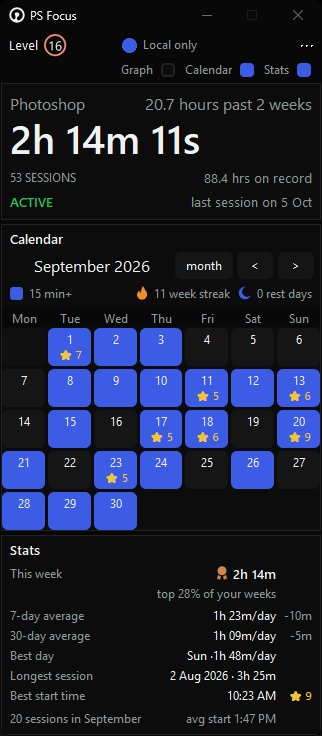
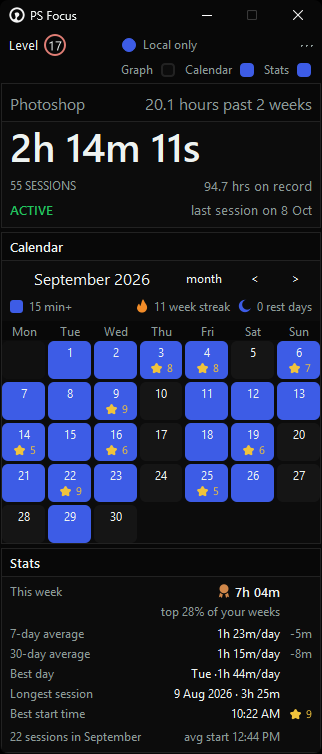
Site: Qt screenshots, floating panels and transparency; plain ticked checkboxes

diff --git a/docs/_layouts/default.html b/docs/_layouts/default.html
@@ -61,6 +61,9 @@
     .shots figcaption, .caption { color: var(--muted); font-size: 14px; margin: 8px 0 0; }
     .wide-shot { margin: 20px 0 0; }
     .wide-shot img { display: block; width: 100%; height: auto; border: 1px solid var(--border); border-radius: 8px; }
+    /* A picture narrower than the page, shown at its own size and centred */
+    .wide-shot.natural img { width: auto; max-width: 100%; margin: 0 auto; }
+    .wide-shot.natural figcaption { text-align: center; }
     .note { background: var(--panel); border: 1px solid var(--border); border-radius: 8px; padding: 12px 16px; color: var(--muted); font-size: 14px; }
     .note p { color: var(--muted); margin: 6px 0; }
     footer { border-top: 1px solid var(--border); padding-top: 20px; padding-bottom: 40px; color: var(--muted); font-size: 14px; }

diff --git a/tools/site_screenshots.py b/tools/site_screenshots.py
@@ -1,50 +1,60 @@
 """Capture the real app, title bar included, showing believable sample data, for the public download page
 
-Nothing from the user's own history or account is used: the app runs against a throwaway data folder.
+Nothing from the user's own history or account is used: the app runs against a throwaway data folder. A plain window
+in the page's own black stands behind the app while it is captured, so nothing else on the screen can show in the
+pictures, not even in the rounded corners.
+
+Run as `py tools/site_screenshots.py [folder]` (the website's assets by default), then commit and push the site.
 """
-import ctypes
-import json
+import os
 import random
 import sys
 import tempfile
 import time
-import tkinter as tk
-from ctypes import wintypes
 from datetime import date, timedelta
 from pathlib import Path
 
-from PIL import ImageGrab
-
 ROOT = Path(__file__).resolve().parent.parent
 sys.path.insert(0, str(ROOT))
-import app_config
-import main
-
-# The website folder's assets by default; run as `py tools/site_screenshots.py [folder]`, then commit and push the site
 out = Path(sys.argv[1]) if len(sys.argv) > 1 else ROOT / "docs" / "assets"
 out.mkdir(parents=True, exist_ok=True)
 data = Path(tempfile.mkdtemp(prefix="psfocus-site-"))
-app_config.APP_DATA = data
-app_config.LEGACY_APP_DATA = data / "legacy"
-app_config.SETTINGS_PATH = data / "settings.json"
-app_config.DATABASE_PATH = data / "activity.sqlite3"
-app_config.BACKUP_DIRECTORIES = (data / "backups",)
-app_config.SETTINGS_PATH.write_text(json.dumps({"feedback_submitted": True, "show_calendar": True, "show_stats": True, "period": "Week"}), encoding="utf-8")
-main.PSFocusApp._start_tray_icon = lambda self: None
-main.PSFocusApp._check_for_updates = lambda self: None
-main.PSFocusApp._celebrate_level_up = lambda self, level: None
-foreground = {"app": "Photoshop"}
-main.foreground_application = lambda: foreground["app"]
-main.user_is_active = lambda _seconds=300: True
+# Before app_config is imported, which reads the data folder once
+os.environ["PSFOCUS_DATA_DIR"] = str(data)
+os.environ["QT_QPA_PLATFORM"] = "windows"
+(data / "settings.json").write_text(
+    '{"feedback_submitted": true, "show_graph": false, "show_calendar": true, "show_stats": true, "period": "Week", '
+    '"panel_transparency": 0}',
+    encoding="utf-8",
+)
 
-root = tk.Tk()
-app = main.PSFocusApp(root)
+from PySide6.QtCore import QPoint, QRect, Qt  # noqa: E402
+from PySide6.QtWidgets import QApplication, QSystemTrayIcon, QWidget  # noqa: E402
+
+import qt.app as qt_app  # noqa: E402
+from qt.app import PSFocusQt  # noqa: E402
+
+# No tray icon, update check, celebration or tip; Photoshop in front the whole time
+PSFocusQt._start_tray_icon = lambda self: setattr(self, "tray_icon", QSystemTrayIcon())
+PSFocusQt._celebrate_level_up = lambda self, level: None
+qt_app.foreground_application = lambda: "Photoshop"
+qt_app.user_is_active = lambda _seconds=300: True
+
+application = QApplication(sys.argv)
+backdrop = QWidget(None, Qt.WindowType.FramelessWindowHint)
+backdrop.setStyleSheet("background: #000000;")
+screen = application.primaryScreen().availableGeometry()
+backdrop.setGeometry(screen)
+backdrop.show()
+app = PSFocusQt(application)
 app._save_settings = lambda: None
+app.tick_timer.stop()
 
 # Ten weeks of plausible drawing sessions: most weekdays, some weekends, an hour or three at a time
 rng = random.Random(11)
 today = date.today()
-with app.store.connection:
+store = app.store
+with store.connection:
     for days_ago in range(1, 71):
         day = today - timedelta(days=days_ago)
         if rng.random() < (0.45 if day.weekday() >= 5 else 0.2):
@@ -54,66 +64,95 @@ with app.store.connection:
         hour, remaining = start_hour, minutes * 60
         while remaining > 0 and hour < 24:
             seconds = min(remaining, rng.randint(2400, 3600))
-            app.store.connection.execute(
+            store.connection.execute(
                 "INSERT OR REPLACE INTO activity (day, slot, seconds, application) VALUES (?, ?, ?, 'Photoshop')", (day.isoformat(), hour, seconds)
             )
             remaining -= seconds
             hour += 1
-        app.store.connection.execute(
+        store.connection.execute(
             "INSERT OR IGNORE INTO session_starts (day, application, started_at) VALUES (?, 'Photoshop', ?)",
             (day.isoformat(), f"{start_hour:02d}:{rng.choice((5, 10, 20, 30, 40)):02d}"),
         )
         if rng.random() < 0.4:
-            app.store.connection.execute("INSERT OR REPLACE INTO productivity_ratings (day, rating) VALUES (?, ?)", (day.isoformat(), rng.randint(5, 9)))
+            store.connection.execute("INSERT OR REPLACE INTO productivity_ratings (day, rating) VALUES (?, ?)", (day.isoformat(), rng.randint(5, 9)))
     # Today so far: a session in progress
     for hour, seconds in ((9, 2900), (10, 3400), (11, 1750)):
-        app.store.connection.execute(
+        store.connection.execute(
             "INSERT OR REPLACE INTO activity (day, slot, seconds, application) VALUES (?, ?, ?, 'Photoshop')", (today.isoformat(), hour, seconds)
         )
-    app.store.connection.execute("INSERT OR IGNORE INTO session_starts (day, application, started_at) VALUES (?, 'Photoshop', '09:10')", (today.isoformat(),))
+    store.connection.execute("INSERT OR IGNORE INTO session_starts (day, application, started_at) VALUES (?, 'Photoshop', '09:10')", (today.isoformat(),))
 
 
-def settle(seconds=0.5):
+def settle(seconds=0.6):
     end = time.time() + seconds
     while time.time() < end:
-        root.update()
+        application.processEvents()
         time.sleep(0.02)
 
 
 def show(**modules):
     for name, visible in modules.items():
-        if app.module_vars[name].get() != visible:
-            app.module_vars[name].set(visible)
-            app._toggle_module(name)
+        if app.module_ticked[name] != visible:
+            app.module_ticked[name] = visible
+            app._module_toggled(name)
+    app.module_controls.update()
 
 
-def shoot(name):
+def refresh():
     app._track_and_refresh()
-    app.calendar_visual_state = None
-    app._calendar_period_changed()
-    app._draw_chart()
-    app._resize_to_content(fit=True)
+    for name in ("graph", "calendar", "stats"):
+        if app.module_ticked[name]:
+            app._refresh_module(name)
+    app._arrange_blocks()
     settle()
-    handle = ctypes.windll.user32.GetAncestor(ctypes.c_void_p(root.winfo_id()), 2)
-    rect = wintypes.RECT()
-    ctypes.windll.dwmapi.DwmGetWindowAttribute(ctypes.c_void_p(handle), 9, ctypes.byref(rect), ctypes.sizeof(rect))
-    image = ImageGrab.grab(bbox=(rect.left, rect.top, rect.right, rect.bottom)).convert("RGB")
-    image.save(out / f"{name}.png", optimize=True)
-    print(f"{name}: {image.width}x{image.height}")
+
+
+def frame(widget) -> QRect:
+    """A window's frame as drawn, without Windows' invisible resize border"""
+    if widget is app.window:
+        left, top, right, bottom = app.docking.main_bounds()
+        return QRect(left, top, right - left, bottom - top)
+    return widget.frameGeometry()
+
+
+def shoot(name, *windows):
+    refresh()
+    area = frame(windows[0])
+    for window in windows[1:]:
+        area = area.united(frame(window))
+    image = application.primaryScreen().grabWindow(0, area.x(), area.y(), area.width(), area.height()).toImage()
+    image.save(str(out / f"{name}.png"))
+    print(f"{name}: {image.width()}x{image.height()}")
 
 
 settle()
-root.geometry("+300+60")
-root.attributes("-topmost", True)
+app.window.move(screen.x() + 400, screen.y() + 40)
+app.window.raise_()
 settle()
 # Last month is shown, as a full month of sessions says more than the first days of a new one
-app._shift_calendar_month(-1)
-shoot("screenshot-calendar")
+app.calendar._step(-1)
+shoot("screenshot-calendar", app.window)
 show(calendar=False, stats=False, graph=True)
-app._set_period("Month")
-shoot("screenshot-graph")
-# The landscape orientation, every module open beside the program panel
+app.chart._set_period("Month")
+shoot("screenshot-graph", app.window)
+# Floating panels: the calendar and stats taken out of the window and snapped beside it, one above the other
 show(calendar=True, stats=True, graph=True)
-app._set_orientation(True)
-shoot("screenshot-landscape")
-root.destroy()
+app.docking.float_module("calendar", QPoint(0, 0))
+app.docking.float_module("stats", QPoint(0, 0))
+settle()
+left, top, _right, _bottom = app.docking.main_bounds()
+calendar_panel, stats_panel = app.docking.floating["calendar"], app.docking.floating["stats"]
+calendar_panel.move(left - calendar_panel.width(), top)
+stats_panel.move(left - stats_panel.width(), top + calendar_panel.height())
+for panel in (calendar_panel, stats_panel):
+    panel.raise_()
+shoot("screenshot-floating", app.window, calendar_panel, stats_panel)
+# The landscape orientation, every module back in the window beside the program panel
+app.docking.dock_all()
+app.landscape = True
+app.landscape_width = None
+app._arrange_blocks()
+app.window.move(screen.x() + 40, screen.y() + 40)
+shoot("screenshot-landscape", app.window)
+sys.stdout.flush()
+os._exit(0)

diff --git a/qt/header.py b/qt/header.py
@@ -60,12 +60,10 @@ def fit_text(text: str, font: QFont, width: int) -> str:
 
 
 def draw_checkbox(painter: QPainter, center: QPointF, checked: bool, hovered: bool = False) -> None:
-    """The rounded square of a checkbox, filled when ticked, with a two-pixel outline. Under the mouse its inside fills
-    a shade lighter, as a button's box shows"""
+    """The rounded square of a checkbox, filled when ticked, with a two-pixel outline. Under the mouse the inside of an
+    empty one fills a shade lighter, as a button's box shows; a ticked one stays as it is"""
     outline = color("calendar_blue") if checked else color("border")
-    fill = color("calendar_blue") if checked else color("panel")
-    if hovered:
-        fill = fill.lighter(125) if checked else color("border")
+    fill = color("calendar_blue") if checked else color("border" if hovered else "panel")
     half = CHECKBOX_BOX_SIZE / 2
     box = QRectF(center.x() - half, center.y() - half, CHECKBOX_BOX_SIZE, CHECKBOX_BOX_SIZE)
     painter.save()

diff --git a/docs/index.md b/docs/index.md
@@ -28,7 +28,8 @@ Windows may say "Windows protected your PC" because the app isn't code-signed ye
 - **Counts real work only.** Time counts while your art app is in front, and pauses after five idle minutes.
 - **Shows your habits.** Charts by day, week, month, and year, a calendar of sessions, streaks, and averages.
 - **Levels 1 to 99.** Your total hours set your level, with a small celebration at each new one.
-- **Fits your screen.** Tall beside your canvas, or a wide strip in landscape, with each panel on the side you like.
+- **Make it your own.** Drag panels by their title to rearrange them, or pull them out to float and snap beside the window, as in Photoshop. Tall beside your canvas, or a wide strip in landscape.
+- **Never in your way.** Optionally turns see-through while your mouse is elsewhere, and solid again when you point at it.
 - **Stays out of the way.** Starts with Windows, sits in the tray, and needs no account.
 - **Backs itself up.** Copies on your PC, plus an optional backup in your own Google Drive.
 
@@ -37,11 +38,11 @@ Windows may say "Windows protected your PC" because the app isn't code-signed ye
 <div class="hero-shots">
 <div class="shots">
   <figure>
-    <img src="{{ '/assets/screenshot-calendar.png' | relative_url }}" width="342" height="721" alt="PS Focus showing today's time in Photoshop, a calendar of September with most days marked as sessions, and stats such as weekly total and averages">
+    <img src="{{ '/assets/screenshot-calendar.png' | relative_url }}" width="322" height="754" alt="PS Focus showing today's time in Photoshop, a calendar of September with most days marked as sessions, and stats such as weekly total and averages">
     <figcaption>Today, the month's sessions, and your stats</figcaption>
   </figure>
   <figure>
-    <img src="{{ '/assets/screenshot-graph.png' | relative_url }}" width="342" height="482" alt="PS Focus showing a line graph of hours drawn each day over the past 30 days">
+    <img src="{{ '/assets/screenshot-graph.png' | relative_url }}" width="322" height="510" alt="PS Focus showing a line graph of hours drawn each day over the past 30 days">
     <figcaption>Hours per day, past month</figcaption>
   </figure>
 </div>
@@ -50,8 +51,13 @@ Windows may say "Windows protected your PC" because the app isn't code-signed ye
 </div>
 
 <figure class="wide-shot">
-  <img src="{{ '/assets/screenshot-landscape.png' | relative_url }}" width="1655" height="232" alt="PS Focus in landscape: today's time in Photoshop, then the hours graph, the September calendar and the stats side by side in one wide, short window">
+  <img src="{{ '/assets/screenshot-landscape.png' | relative_url }}" width="1575" height="237" alt="PS Focus in landscape: today's time in Photoshop, then the hours graph, the September calendar and the stats side by side in one wide, short window">
   <figcaption class="caption">Landscape: everything side by side in one short strip</figcaption>
+</figure>
+
+<figure class="wide-shot natural">
+  <img src="{{ '/assets/screenshot-floating.png' | relative_url }}" width="642" height="517" alt="PS Focus with the calendar and stats pulled out into floating panels, snapped one above the other beside the main window, which shows today's time and the hours graph">
+  <figcaption class="caption">Floating panels: pull any panel out by its title and it snaps into place</figcaption>
 </figure>
 
 <section class="maker" aria-label="Who makes PS Focus">
